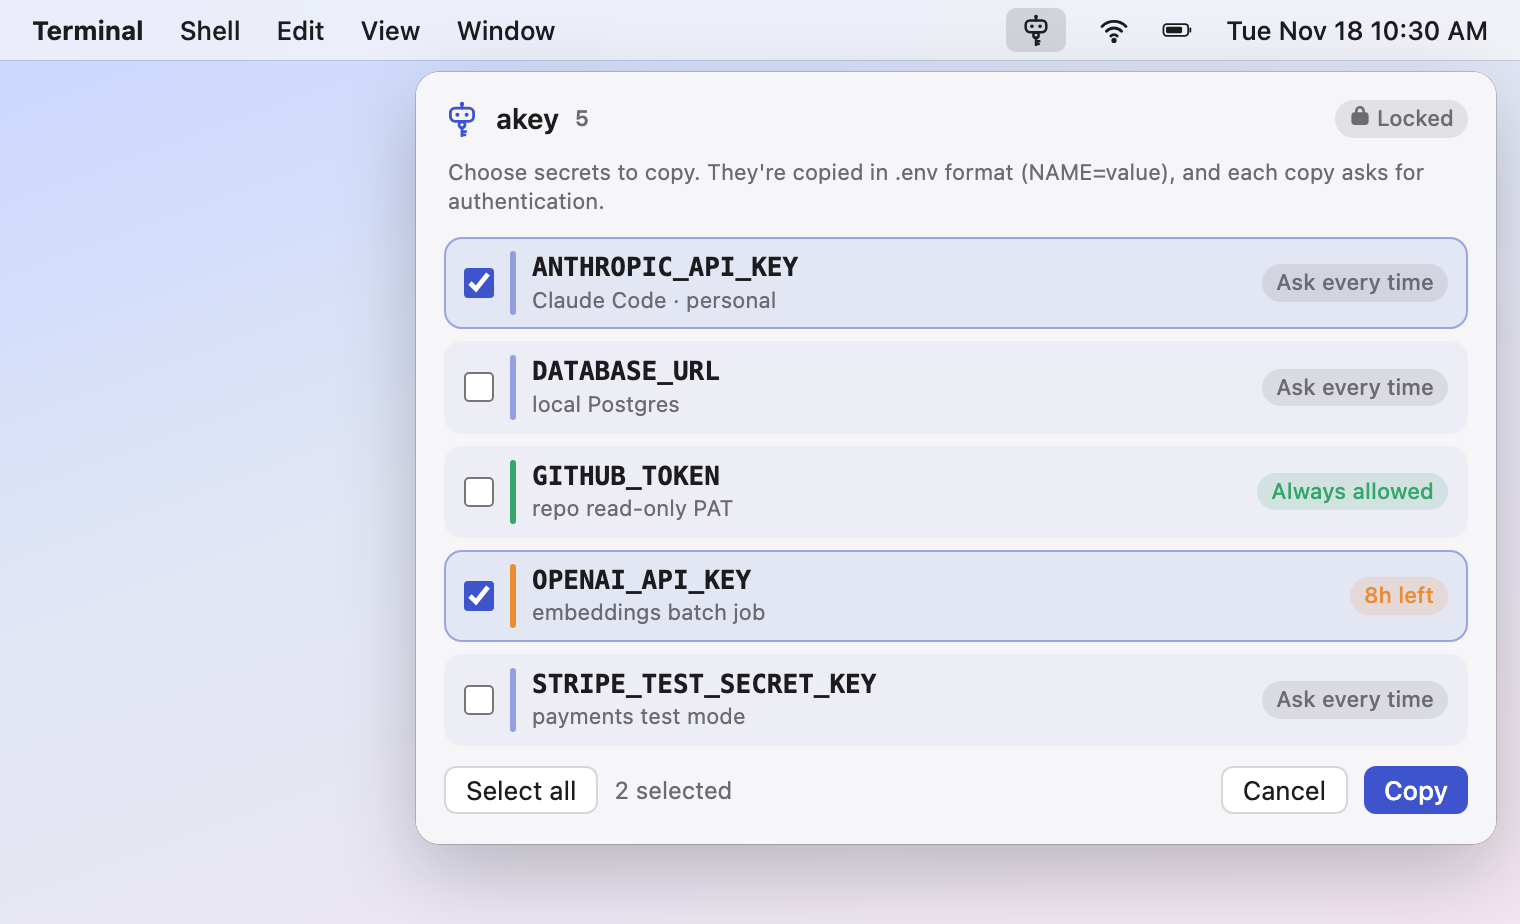
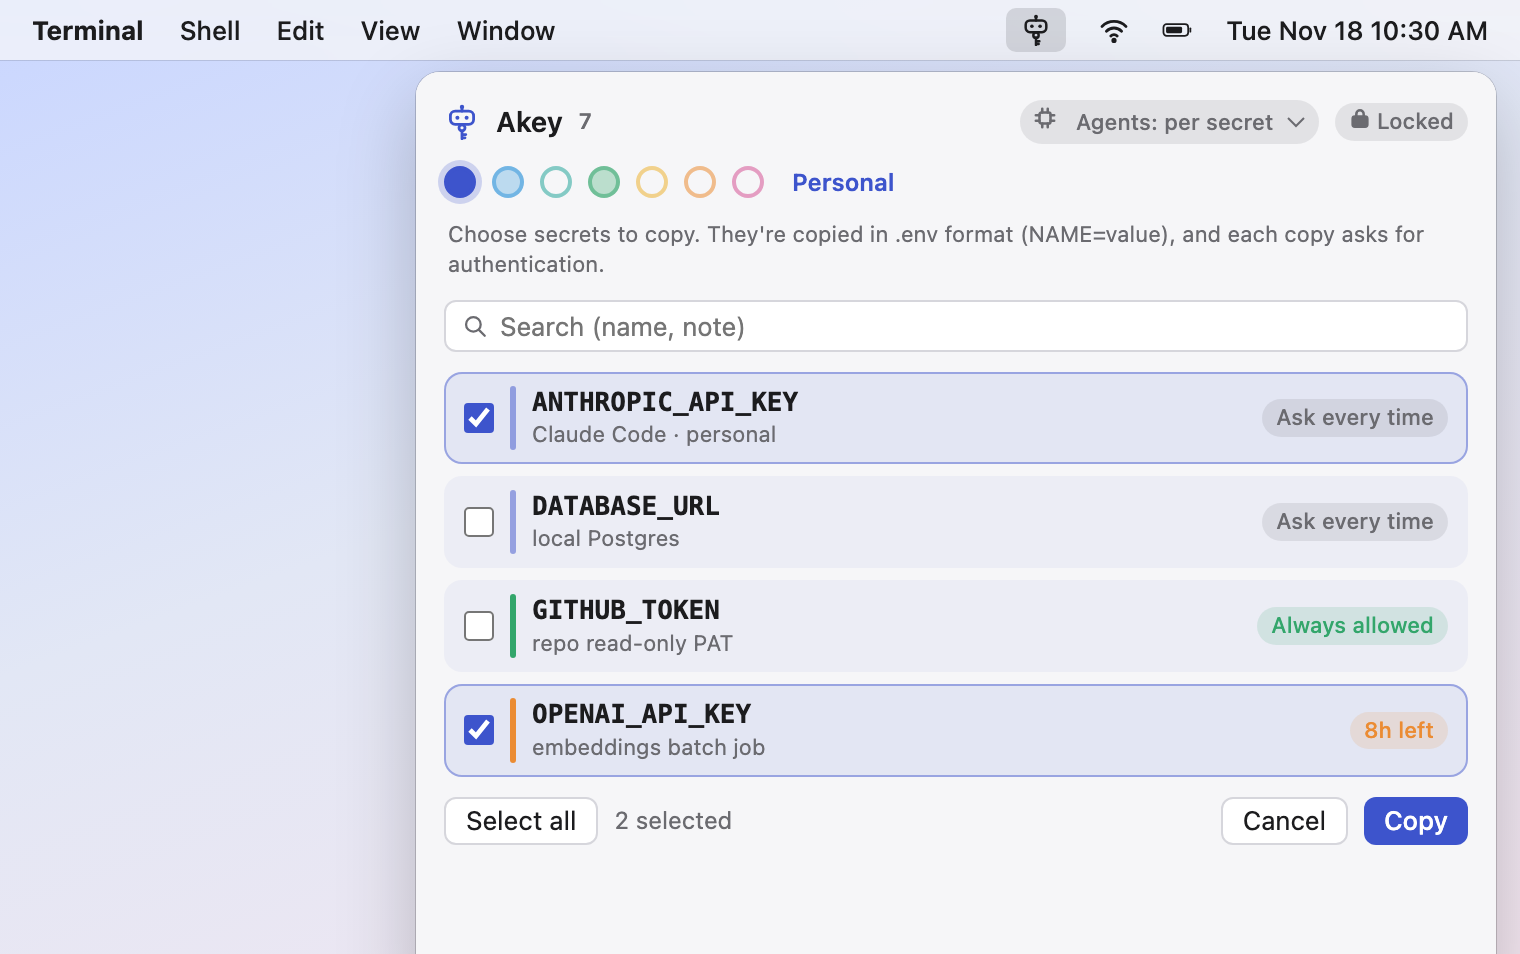
Docs: refresh screenshots for groups, agent access and the Akey name

diff --git a/rust/ui/settings.html b/rust/ui/settings.html
@@ -3,7 +3,7 @@
 <head>
   <meta charset="utf-8">
   <meta name="viewport" content="width=device-width">
-  <title>akey</title>
+  <title>Akey</title>
   <link rel="stylesheet" href="style.css">
   <script type="module" src="settings.js"></script>
 </head>

diff --git a/rust/ui/index.html b/rust/ui/index.html
@@ -3,7 +3,7 @@
 <head>
   <meta charset="utf-8">
   <meta name="viewport" content="width=device-width">
-  <title>akey</title>
+  <title>Akey</title>
   <link rel="stylesheet" href="style.css">
   <script type="module" src="app.js"></script>
 </head>
